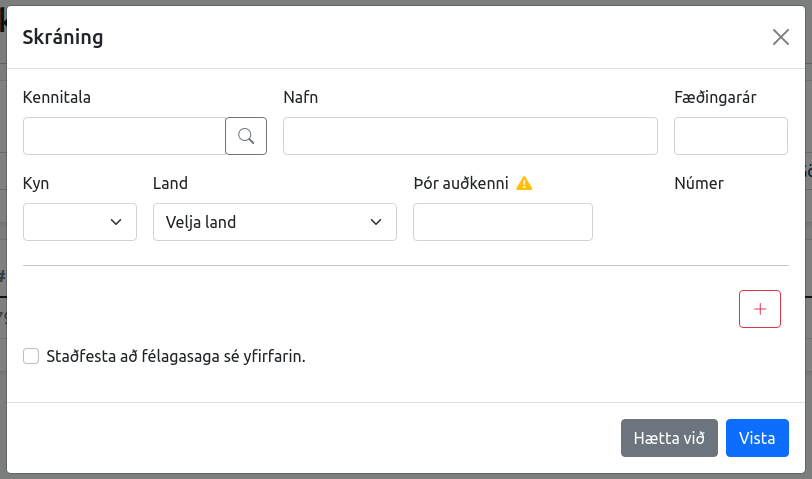
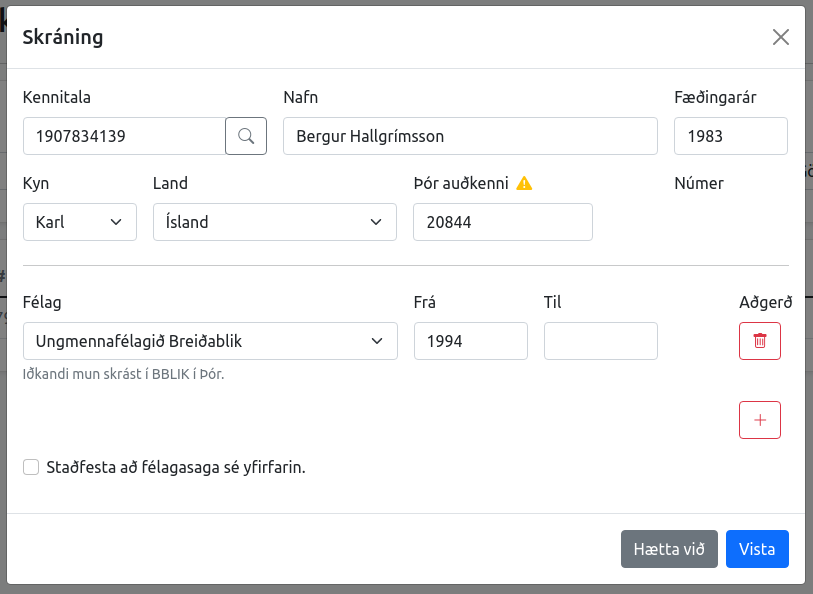
GitBook: [#35] No subject

diff --git a/docs/leidbeiningar/stjornkerfi/afrita-idkanda-ur-thor-i-felagatal.md b/docs/leidbeiningar/stjornkerfi/afrita-idkanda-ur-thor-i-felagatal.md
@@ -12,17 +12,17 @@ description: >-
 
 Þegar iðkandi finnst ekki í félagatalinu birtist tómur list.
 
-<figure><img src=".gitbook/assets/image (3).png" alt=""><figcaption><p>Iðkanda finnst ekki í félagatalinu</p></figcaption></figure>
+<figure><img src="../../.gitbook/assets/image (4).png" alt=""><figcaption><p>Iðkanda finnst ekki í félagatalinu</p></figcaption></figure>
 
 1.  Veldu hnappinn stofna upp í hægra horninu.\
 
 
-    <figure><img src=".gitbook/assets/image.png" alt=""><figcaption><p>Gluggi til að nýskrá iðkendur</p></figcaption></figure>
+    <figure><img src="../../.gitbook/assets/image (5).png" alt=""><figcaption><p>Gluggi til að nýskrá iðkendur</p></figcaption></figure>
 
 2\. Skráðu inn kennitöluna án bandstriks og smelltu á stækkunarglerið. Við það fyllast reitirnir út.\
 
 
-<figure><img src=".gitbook/assets/image (4).png" alt=""><figcaption><p>Útfyllt form fyrir iðkanda</p></figcaption></figure>
+<figure><img src="../../.gitbook/assets/image.png" alt=""><figcaption><p>Útfyllt form fyrir iðkanda</p></figcaption></figure>
 
 {% hint style="warning" %}
 **ATH:** Það er mikilvægt að fara yfir reitina. Í sumum tilfella eru ekki allar upplýsingar í Þór t.d. Land eða fyrsta keppnisár. Í þeim tilfellum þarf að handfylla þá reiti út.

diff --git a/docs/leidbeiningar/stjornkerfi/urslit-hlaupa-i-afrekaskra.md b/docs/leidbeiningar/stjornkerfi/urslit-hlaupa-i-afrekaskra.md
@@ -32,7 +32,7 @@ Með því að smella á línuna opnast gluggi þar sem skrifstofa FRÍ getur la
 
 Þegar búið er að skrá inn rétta kennitölu og vista þá uppfærist listinn og leiðrétt kennitala og keppendanúmer er sýnilegt.
 
-<figure><img src="../../.gitbook/assets/image (1).png" alt=""><figcaption><p>Taflan sýnir nú leiðrétta kennitölu og keppendanúmer.</p></figcaption></figure>
+<figure><img src="../../.gitbook/assets/image (3).png" alt=""><figcaption><p>Taflan sýnir nú leiðrétta kennitölu og keppendanúmer.</p></figcaption></figure>
 
 Við þessa aðgerð uppfærði kerfið bæði villulistann og skráninguna á mótinu. Hlauparinn er nú með rétta kennitölu og keppendanúmer á mótinu.
 

diff --git a/docs/SUMMARY.md b/docs/SUMMARY.md
@@ -11,12 +11,9 @@
 * [Inngangur](leidbeiningar/fyrstu-skref.md)
 * [Stjórnkerfi](leidbeiningar/stjornkerfi/README.md)
   * [Úrslit hlaupa í afrekaskrá](leidbeiningar/stjornkerfi/urslit-hlaupa-i-afrekaskra.md)
+  * [Afrita iðkanda úr Þór í félagatal](leidbeiningar/stjornkerfi/afrita-idkanda-ur-thor-i-felagatal.md)
 * [Umsóknir](leidbeiningar/umsoknir.md)
 
 ## 🧑💻 Þróun
 
 * [Inngangur](throun/fyrstu-skref.md)
-
-***
-
-* [Afrita iðkanda úr Þór í félagatal](afrita-idkanda-ur-thor-i-felagatal.md)
